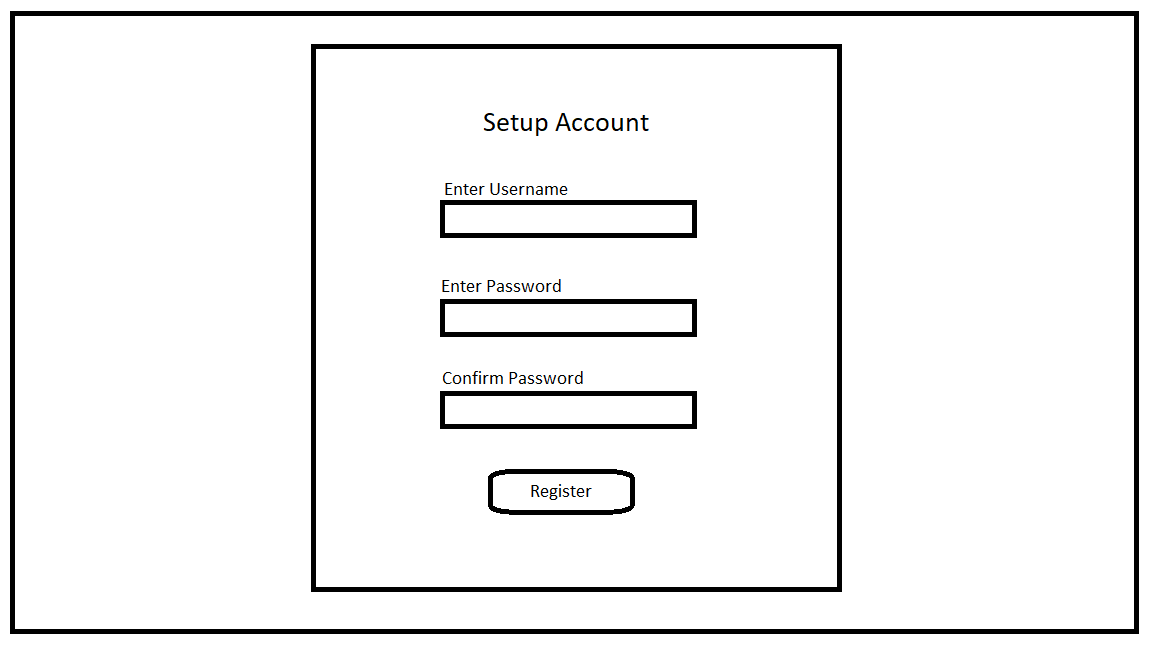
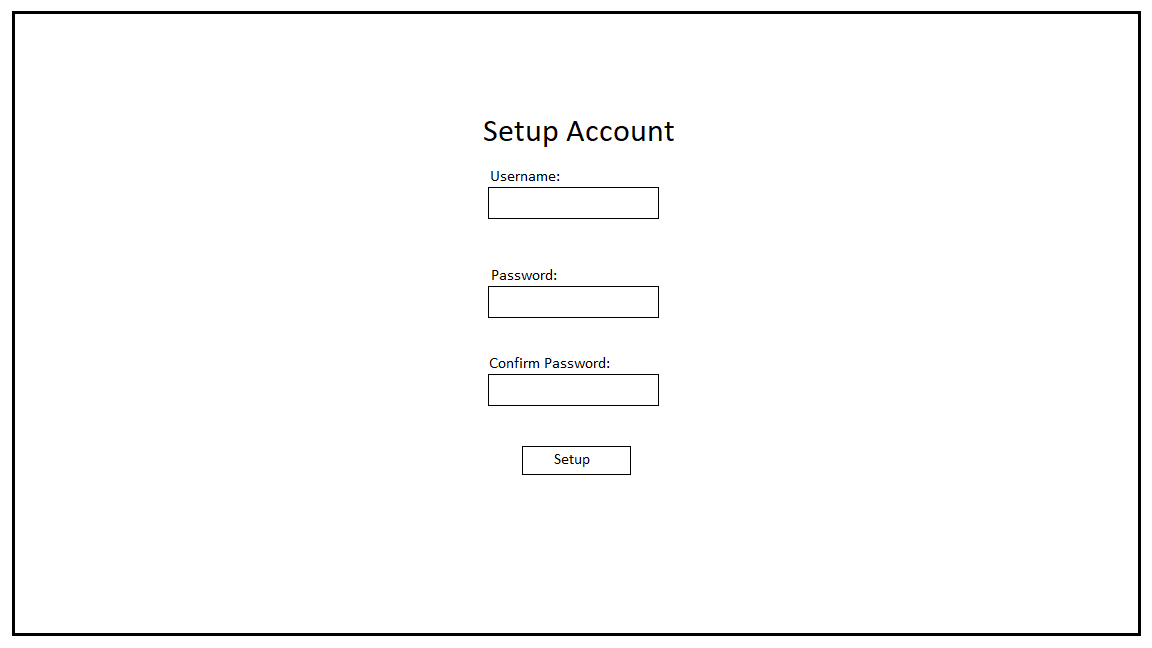
updated setup_page wireframe, added login_page wireframe

diff --git a/main.py b/main.py
@@ -98,13 +98,13 @@ class SetupPage(tk.Frame):
         setup_title = tk.Label(form_wm, font=('helvetica', 32), text='Setup Account')
         username_subtitle = tk.Label(form_wm, font=('helvetica', 12), text='Username:', borderwidth=2)
         username_entry = tk.Entry(form_wm, font=('helvetica', 18), textvariable=self.username_var)
-        self.username_error = tk.Label(form_wm, font=('helvetica', 10))
+        self.username_error = tk.Label(form_wm, font=('helvetica', 10), foreground='red')
         password_subtitle = tk.Label(form_wm, text='Password:', font=('helvetica', 12), borderwidth=2)
         password_entry = tk.Entry(form_wm, font=('helvetica', 18), textvariable=self.password_var)
-        self.password_error = tk.Label(form_wm, font=('helvetica', 10))
+        self.password_error = tk.Label(form_wm, font=('helvetica', 10), foreground='red')
         confirm_password_subtitle = tk.Label(form_wm, font=('helvetica', 12), text='Confirm Password:', borderwidth=2)
         confirm_password_entry = tk.Entry(form_wm, font=('helvetica', 18), textvariable=self.confirm_password_var)
-        self.confirm_password_error = tk.Label(form_wm, font=('helvetica', 10))
+        self.confirm_password_error = tk.Label(form_wm, font=('helvetica', 10), foreground='red')
         setup_submission = tk.Button(form_wm, font=('helvetica', 18), text='Proceed', command=self.setup_procedure)
 
         setup_title.place(x=160, y=50)
@@ -128,13 +128,13 @@ class SetupPage(tk.Frame):
 
         # check if username lengths are within 3 to 12 characters long
         if len(self.username_var.get()) < 3 or len(self.username_var.get()) > 12:
-            self.username_error.config(text='Invalid Username! Must be between 3 - 12 characters.', foreground='red')
+            self.username_error.config(text='Invalid Username! Must be between 3 - 12 characters.')
         # check if password is atleast 6 characters long
         elif len(self.password_var.get()) < 6:
-            self.password_error.config(text='Invalid Password! Must be 6 or more characters.', foreground='red')
+            self.password_error.config(text='Invalid Password! Must be 6 or more characters.')
         # check if password confirmation and password matched
         elif self.password_var.get() != self.confirm_password_var.get():
-            self.confirm_password_error.config(text='Confirmation Failed! Password and Confirm Password must match.', foreground='red')
+            self.confirm_password_error.config(text='Confirmation Failed! Password and Confirm Password must match.')
         # if successful, sets the username and password (aka 'creates' them)
         else:
             self.controller.username.set(self.username_var.get())
